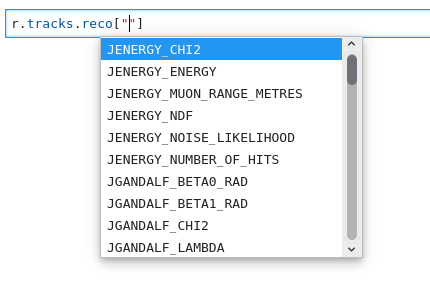
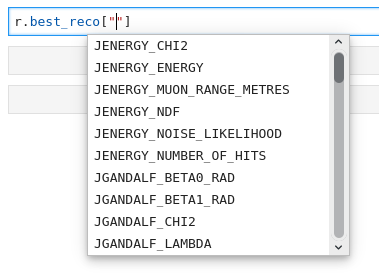
update docs for reco data

Changed region(s): [[0.0, 0.0, 1.0, 0.967]]

diff --git a/README.rst b/README.rst
@@ -602,7 +602,7 @@ to get the reconstruction parameters, first take a look at the available reconst
 
 .. code-block:: python3
 
-    >>>r.tracks.reco.dtype.names
+    >>>r.best_reco.dtype.names
     ['JGANDALF_BETA0_RAD',
      'JGANDALF_BETA1_RAD',
      'JGANDALF_CHI2',
@@ -625,13 +625,62 @@ the keys above can also be accessed with a tab completion:
 
 .. image:: https://git.km3net.de/km3py/km3io/raw/master/examples/pictures/reco.png
 
+to get a numpy `recarray <https://docs.scipy.org/doc/numpy/reference/generated/numpy.recarray.html>`__ of all fit data of the best reconstructed track:
+
+.. code-block:: python3
+
+    >>>r.best_reco
+
 to get an array of a parameter of interest, let's say `'JENERGY_ENERGY'`:
 
 .. code-block:: python3
 
-    >>>r.tracks.reco['JENERGY_ENERGY']
-    >>>array([99.10458562, 99.10458562, 99.10458562, 37.85515249, 99.10458562,
-        7.16916787, 99.10458562, 99.10458562, 49.13672986, 20.35137468])
+    >>>r.best_reco['JENERGY_ENERGY']
+    array([1141.87137899, 4708.16378575,  499.7243005 ,  103.54680875,
+        208.6103912 , 1336.52338666,  998.87632267, 1206.54345674,
+         16.28973662])
+
+**Note**: In km3io, the best fit is defined as the track fit with the maximum reconstruction stages. When "nan" is returned, it means that the reconstruction parameter of interest is not found. for example, in the case of muon simulations: if `[1, 2]` are the reconstruction stages, then only the fit parameters corresponding to the stages `[1, 2]` are found in the Offline files, the remaining fit parameters corresponding to the stages `[3, 4, 5]` are all filled with nan.
+
+to get a numpy recarray of the fit data of tracks with specific reconstruction stages, let's say `[1, 2, 3, 4, 5]` in the case of a muon track reconstruction: 
+
+.. code-block:: python3
+
+    >>>r.get_reco_fit([1, 2, 3, 4, 5])
+
+again, to get the reconstruction parameters names: 
+
+.. code-block:: python3
+
+    >>>r.get_reco_fit([1, 2, 3, 4, 5]).dtype.names
+    ('JGANDALF_BETA0_RAD',
+     'JGANDALF_BETA1_RAD',
+     'JGANDALF_CHI2',
+     'JGANDALF_NUMBER_OF_HITS',
+     'JENERGY_ENERGY',
+     'JENERGY_CHI2',
+     'JGANDALF_LAMBDA',
+     'JGANDALF_NUMBER_OF_ITERATIONS',
+     'JSTART_NPE_MIP',
+     'JSTART_NPE_MIP_TOTAL',
+     'JSTART_LENGTH_METRES',
+     'JVETO_NPE',
+     'JVETO_NUMBER_OF_HITS',
+     'JENERGY_MUON_RANGE_METRES',
+     'JENERGY_NOISE_LIKELIHOOD',
+     'JENERGY_NDF',
+     'JENERGY_NUMBER_OF_HITS')
+
+to get the reconstruction data of interest, for example ['JENERGY_ENERGY']: 
+
+.. code-block:: python3
+
+    >>>r.get_reco_fit([1, 2, 3, 4, 5])['JENERGY_ENERGY']
+    array([1141.87137899, 4708.16378575,  499.7243005 ,  103.54680875,
+        208.6103912 , 1336.52338666,  998.87632267, 1206.54345674,
+         16.28973662])
+
+**Note**: When the reconstruction stages of interest are not found in all your data file, an error is raised.
 
 
 reading mc hits data
